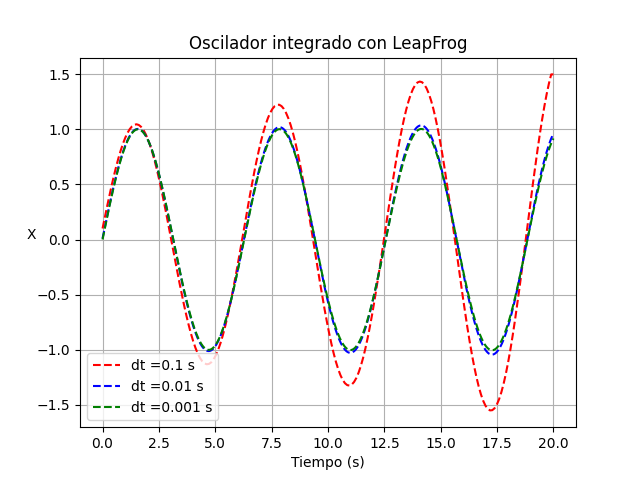
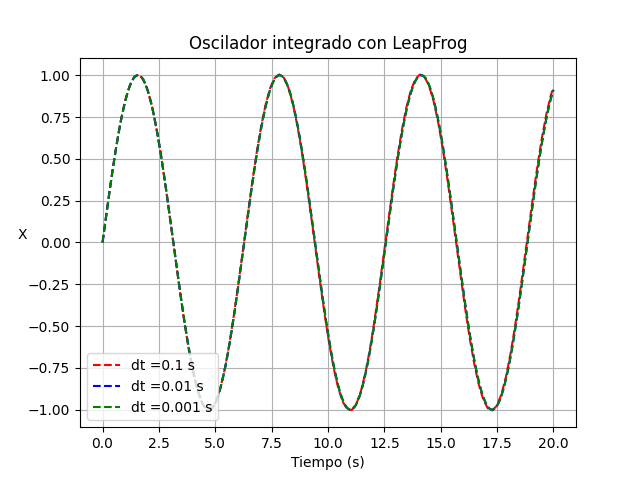
LF update

diff --git a/sources/Mathematics/EDOS.py b/sources/Mathematics/EDOS.py
@@ -1,4 +1,5 @@
 from numpy import zeros, float64
+from Numeric.Esquemas_numéricos import leapfrog
 
 
 ## Ecuaciones Diferenciales Ordinarias ##
@@ -25,11 +26,24 @@ def Cauchy_Problem(F,t,U0,Esquema):
 
     U = zeros((n+1,nv), dtype=float64)
 
+    dt = t[1] - t[0] 
+
     U[0,:] = U0
 
-    for i in range(n):
+    if Esquema == leapfrog:
 
-        U[i+1,:] = Esquema(U[i,:],t[i+1] - t[i],t[i],F)
+        U[1,:] = U[0,:] + dt*F(U[0,:],t[0])
+
+        for i in range(1,n):
+
+            U1 = U[i-1, :]
+            U2 = U[i, :]
+            U[i+1, :] = Esquema(U1, U2, dt, t[i], F)
+
+    else: 
+        for i in range(n):
+
+            U[i+1,:] = Esquema(U[i,:], dt, t[i], F)
 
     return U
 

diff --git a/sources/Numeric/Esquemas_numéricos.py b/sources/Numeric/Esquemas_numéricos.py
@@ -47,28 +47,6 @@ def Euler_inverso(U, dt, t, F):
     return newton(Ec_Eulerinverso,U)
 
 
-def leapfrog (U, dt, t, F):  
+def leapfrog (U1, U2, dt, t, F):  
 
-  if t == 0 :
-
-      U +=  dt * F(U,t)
-
-  else: 
-
-      mid = int(size(U)/2)        # int(len(list) / 2) - 1
-
-      Ua  = U
-
-      new = F(Ua,t)
-
-      Ua[mid:] += new[mid:] * dt * 0.5
-      Ua[:mid] += new[:mid] * dt
-
-      new = F(Ua,t)
-
-      Ua[mid:] += new[mid:] * dt * 0.5
-
-      U = Ua
-  
-        
-  return U
+  return U1 + 2*dt*F(U2,t)

diff --git a/sources/Hito 4.py b/sources/Hito 4.py
@@ -49,7 +49,7 @@ for j in range (size(methods)):
     plt.savefig('Plots/Hito 4/ osc' + figuras[j] +'.png')
     plt.close()
     
-
+"""
     ### SECOND PART: SCHEME'S ABSOLUTE STABILITY REGION ###
     
     [A,B] = Characteristic_Polynomia(methods[j])
@@ -71,3 +71,4 @@ for j in range (size(methods)):
     plt.ylabel("Im",rotation = 0)
     plt.savefig('Plots/Hito 4/ ASR' + lista[j] + '.png')
 
+"""
